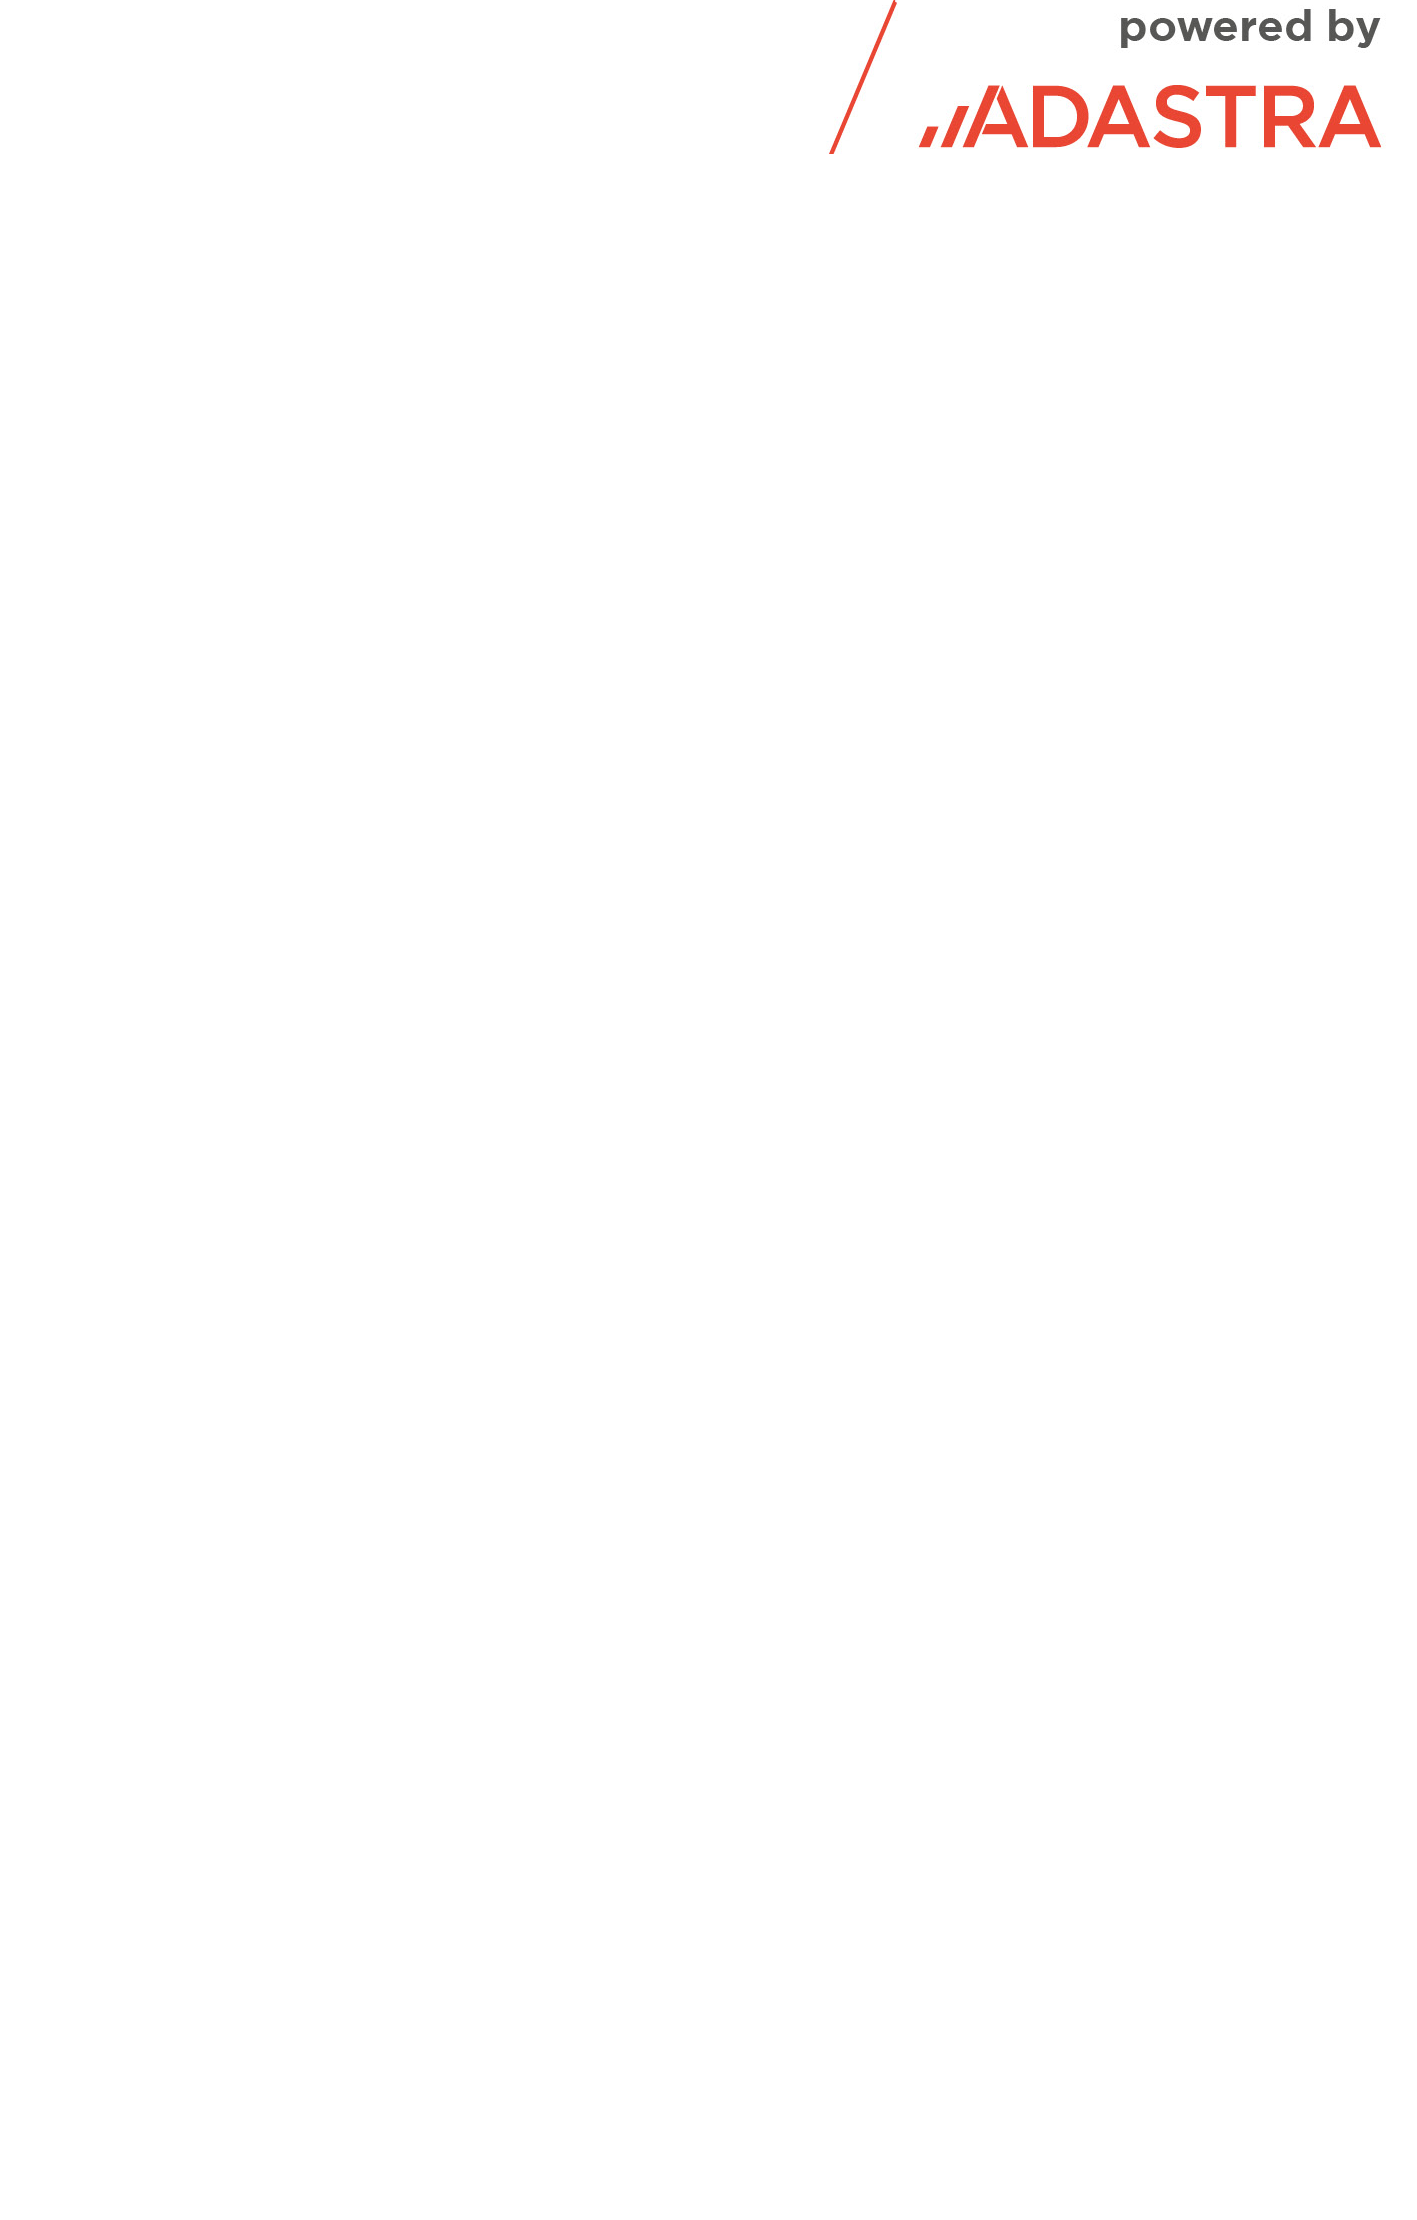
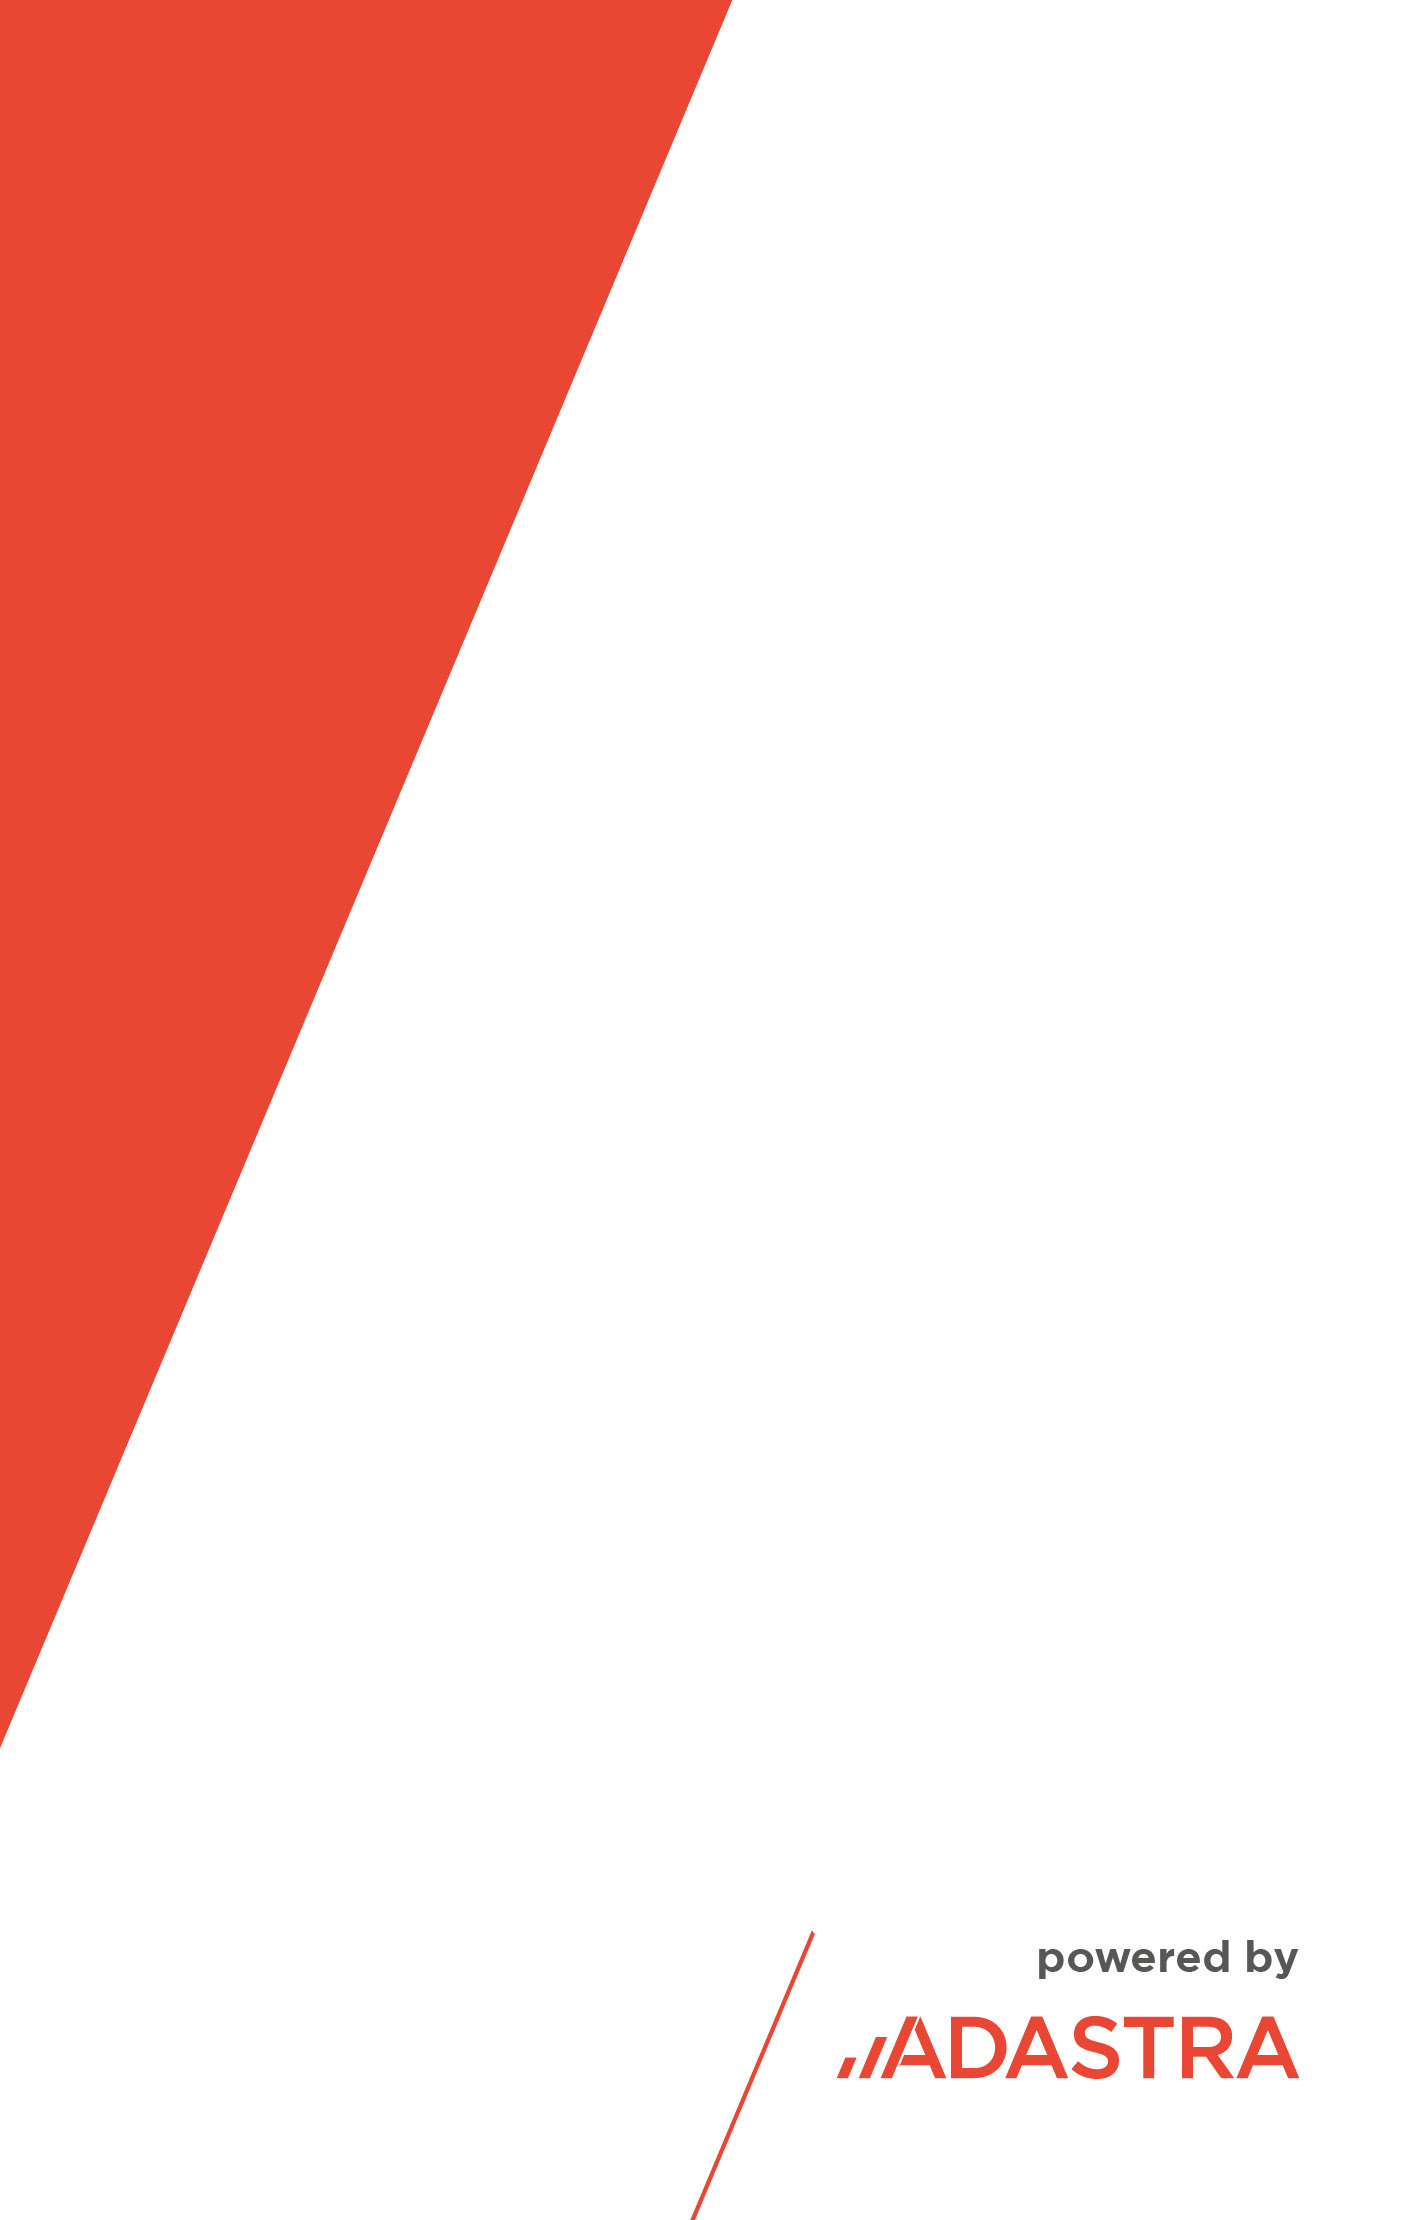
background

diff --git a/src/image_gen.py b/src/image_gen.py
@@ -135,7 +135,7 @@ class ImageGen:
                         name=self.filename
                         )
 
-    def add_background(self, border_size=20):
+    def add_background(self, border_size=100):
 
         # Open the background image and foreground image
         background_image = Image.open(self.conf.adastra_background)
@@ -144,30 +144,27 @@ class ImageGen:
                                                    self.filename))
 
         # Calculate the dimensions for resizing the foreground image
-        border_size = 20  # Adjust border size as needed
         border_width = background_image.width - 2 * border_size
-        border_height = background_image.height - 2 * border_size - 200
+        border_height = background_image.height - 2 * border_size
 
         foreground_resized = foreground_image.resize((border_width, border_height))
 
-        # Create a new composite image with transparent background
+        # Create a new composite image with transparent background and the same size as the background image
         composite_image = Image.new("RGBA", background_image.size)
 
         # Paste the background image onto the composite image
         composite_image.paste(background_image, (0, 0))
 
-        # Calculate the position to paste the resized foreground image at the bottom
-        paste_position = (border_size, background_image.height - border_height - border_size + 20)
+        # Calculate the position to paste the resized foreground image with the border
+        paste_position = (border_size, border_size)
 
-        # Paste the resized foreground image onto the composite image at the bottom
+        # Paste the resized foreground image onto the composite image with the border
         composite_image.paste(foreground_resized, paste_position)
 
-        # Crop the composite image to remove the left and right space borders
-        composite_image_cropped = composite_image.crop(
-            (border_size, 0, composite_image.width - border_size, composite_image.height))
+        # Save the composite image
+        composite_image.save(os.path.join("src", "static",
+                                          self.conf.img_folders['dest_bckg'],
+                                          self.filename))
 
-        composite_image_cropped.save(os.path.join("src", "static",
-                                                  self.conf.img_folders['dest_bckg'],
-                                                  self.filename))
 
 

diff --git a/src/main.py b/src/main.py
@@ -3,7 +3,7 @@ from flask import Flask, render_template, url_for, redirect, request
 from werkzeug.utils import secure_filename
 from image_gen import ImageGen
 from watchdog.observers import Observer
-# from printer import print_image
+from printer import print_image
 from gmail_api import GmailAPI
 import logging
 from logging.handlers import RotatingFileHandler
